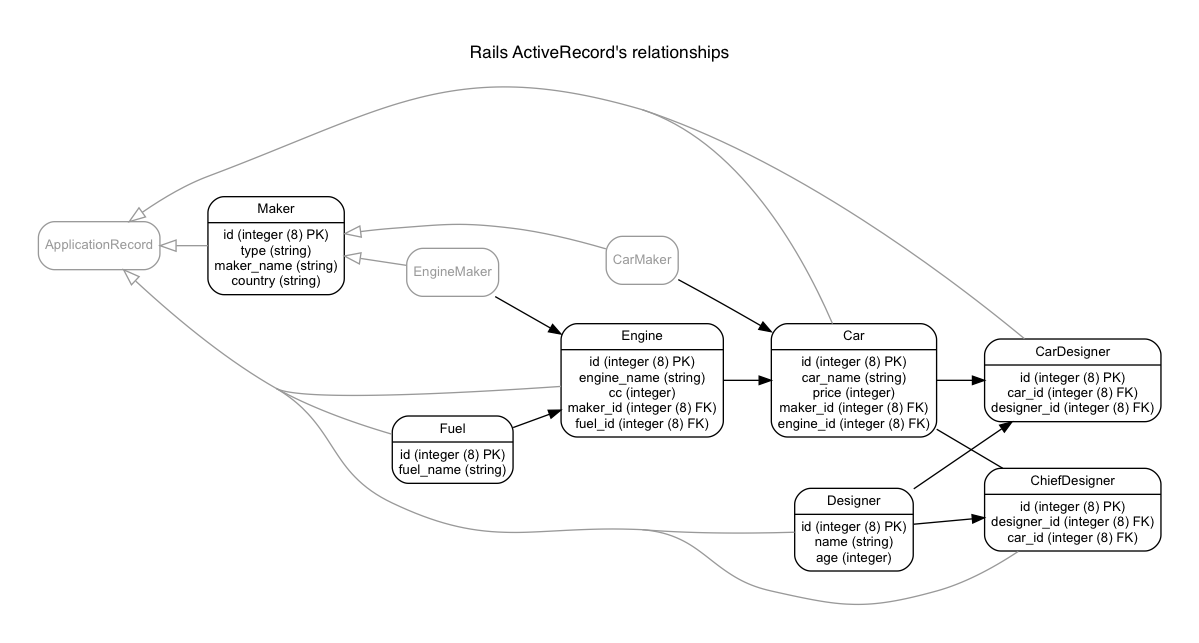
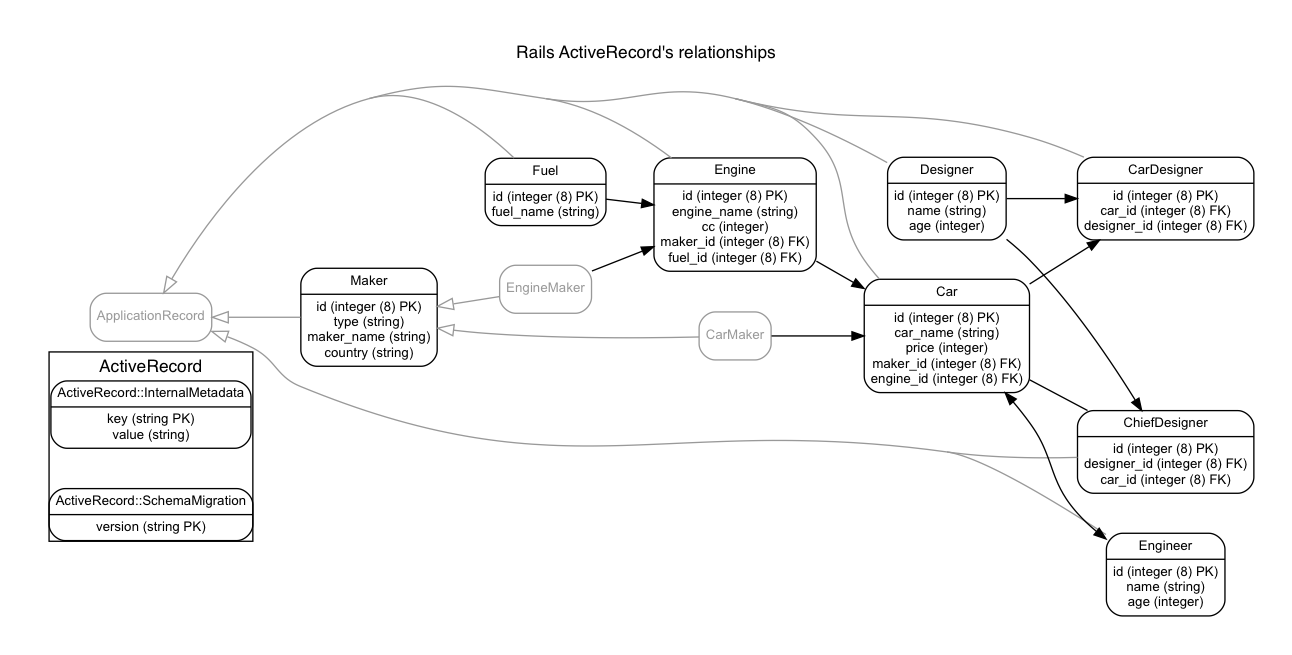
Testing about has_and_belongs_to_many

diff --git a/db/schema.rb b/db/schema.rb
@@ -10,7 +10,7 @@
 #
 # It's strongly recommended that you check this file into your version control system.
 
-ActiveRecord::Schema.define(version: 2018_08_16_151501) do
+ActiveRecord::Schema.define(version: 2018_08_20_152020) do
 
   create_table "car_designers", options: "ENGINE=InnoDB DEFAULT CHARSET=utf8", force: :cascade do |t|
     t.bigint "car_id"
@@ -32,6 +32,13 @@ ActiveRecord::Schema.define(version: 2018_08_16_151501) do
     t.index ["maker_id"], name: "index_cars_on_maker_id"
   end
 
+  create_table "cars_engineers", id: false, options: "ENGINE=InnoDB DEFAULT CHARSET=utf8", force: :cascade do |t|
+    t.bigint "car_id", null: false
+    t.bigint "engineer_id", null: false
+    t.index ["car_id"], name: "index_cars_engineers_on_car_id"
+    t.index ["engineer_id"], name: "index_cars_engineers_on_engineer_id"
+  end
+
   create_table "chief_designers", options: "ENGINE=InnoDB DEFAULT CHARSET=utf8", force: :cascade do |t|
     t.bigint "designer_id"
     t.bigint "car_id"
@@ -42,6 +49,13 @@ ActiveRecord::Schema.define(version: 2018_08_16_151501) do
   end
 
   create_table "designers", options: "ENGINE=InnoDB DEFAULT CHARSET=utf8", force: :cascade do |t|
+    t.string "name"
+    t.integer "age"
+    t.datetime "created_at", null: false
+    t.datetime "updated_at", null: false
+  end
+
+  create_table "engineers", options: "ENGINE=InnoDB DEFAULT CHARSET=utf8", force: :cascade do |t|
     t.string "name"
     t.integer "age"
     t.datetime "created_at", null: false
@@ -77,6 +91,8 @@ ActiveRecord::Schema.define(version: 2018_08_16_151501) do
   add_foreign_key "car_designers", "designers"
   add_foreign_key "cars", "engines"
   add_foreign_key "cars", "makers"
+  add_foreign_key "cars_engineers", "cars"
+  add_foreign_key "cars_engineers", "engineers"
   add_foreign_key "chief_designers", "cars"
   add_foreign_key "chief_designers", "designers"
   add_foreign_key "engines", "fuels"

diff --git a/db/migrate/20180820152020_create_cars_engineers.rb b/db/migrate/20180820152020_create_cars_engineers.rb
@@ -1,0 +1,8 @@
+class CreateCarsEngineers < ActiveRecord::Migration[5.2]
+  def change
+    create_table :cars_engineers, id: false do |t|
+      t.references :car, foreign_key: true, null: false
+      t.references :engineer, foreign_key: true, null: false
+    end
+  end
+end

diff --git a/db/migrate/20180820145209_create_engineers.rb b/db/migrate/20180820145209_create_engineers.rb
@@ -1,0 +1,10 @@
+class CreateEngineers < ActiveRecord::Migration[5.2]
+  def change
+    create_table :engineers do |t|
+      t.string :name
+      t.integer :age
+
+      t.timestamps
+    end
+  end
+end

diff --git a/app/models/car.rb b/app/models/car.rb
@@ -7,4 +7,6 @@ class Car < ApplicationRecord
   
   has_many :car_designers
   has_many :designers, through: :car_designers
+
+  has_and_belongs_to_many :engineers
 end

diff --git a/app/models/engineer.rb b/app/models/engineer.rb
@@ -1,0 +1,3 @@
+class Engineer < ApplicationRecord
+  has_and_belongs_to_many :cars
+end
